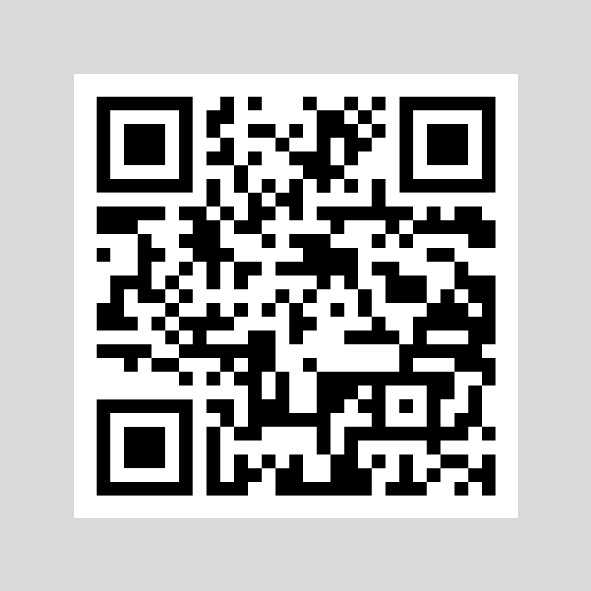
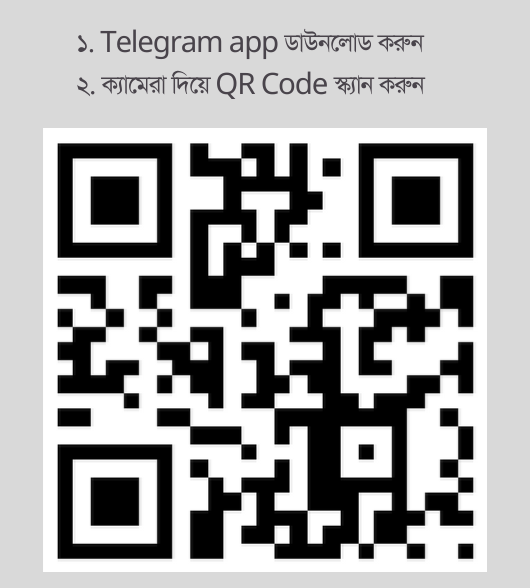
updated qr code and text

diff --git a/index.html b/index.html
@@ -80,6 +80,7 @@
           </div>
           <div class="col-lg-4 order-2 order-lg-2">
             <img src="assets/img/toholQR.png" class="img-fluid" alt="">
+              <p class="text-center mt-2">অথবা এখানে <a href="https://t.me/ToholBot" style="color: #FF0844;" target="_blank">ক্লিক করুন</a></p>
           </div>
         </div>
       </div>
@@ -130,6 +131,7 @@
     <div class="container">
       <div class="copyright text-center ">
         <p>©<strong class="px-1 sitename">Tohol</strong> <span>All Rights Reserved</span></p>
+        <p>টহল একটি অলাভজনক প্রজেক্ট এবং এটা সম্পূর্ণ ব্যাক্তি উদ্যগে করা হয়েছে। কোন প্রকার সরকারি পৃষ্ঠপোষকতা নেই </p>
       </div>
       <div class="social-links d-flex justify-content-center">
         <a href=""><i class="bi bi-twitter-x"></i></a>
